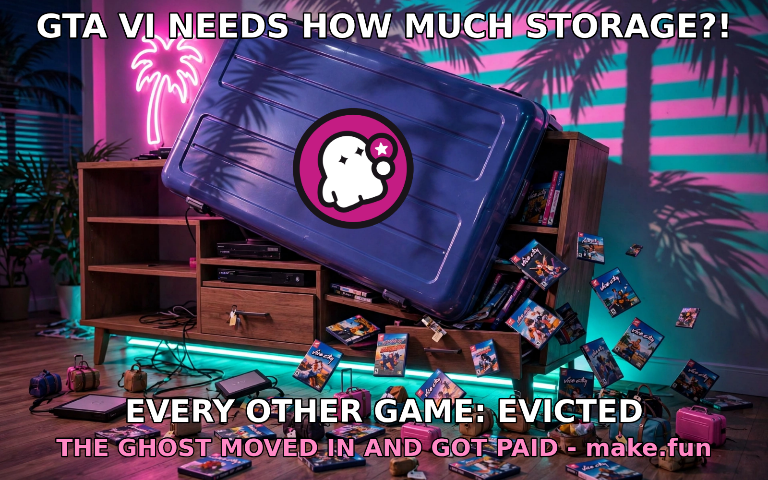
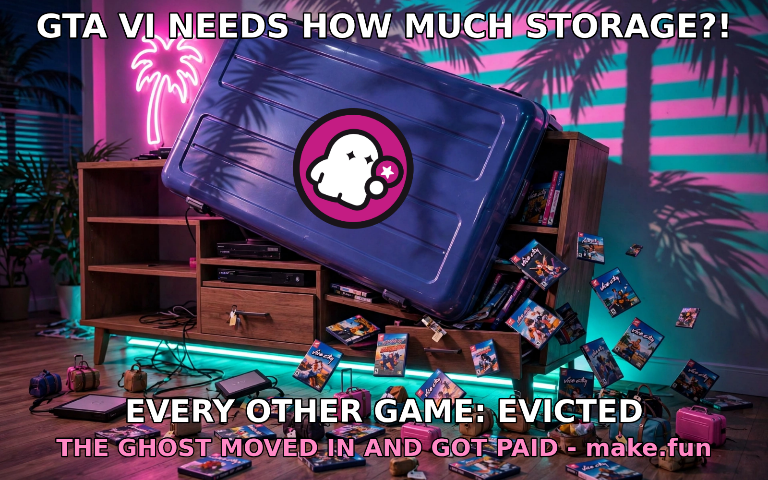
Fix ghost badge rotation: +20 deg clockwise to match suitcase tilt

Changed region(s): [[0.375, 0.25, 0.5312, 0.4688]]

diff --git a/index.html b/index.html
@@ -39,7 +39,7 @@
 
   offCtx.save();
   offCtx.translate(883, 461);
-  offCtx.rotate(-20 * Math.PI / 180);
+  offCtx.rotate(20 * Math.PI / 180);
   offCtx.drawImage(ghostImg, -163, -163, 326, 326);
   offCtx.restore();
 

diff --git a/README.md b/README.md
@@ -19,7 +19,7 @@ The compositing program produces two output images in `output/`:
 ## Compositing Process
 
 1. Draw the base image on an offscreen 1920x1280 canvas.
-2. Composite the ghost mark onto the suitcase: centered at raw coordinates (883, 461), diameter 326 px, rotated -20 degrees to align with the suitcase tilt.
+2. Composite the ghost mark onto the suitcase: centered at raw coordinates (883, 461), diameter 326 px, rotated +20 degrees (clockwise) to align with the suitcase tilt.
 3. Crop/scale onto the final 1600x1000 canvas: source rect (0, 40, 1920, 1200) drawn to (0, 0, 1600, 1000).
 4. Typeset three caption lines with canvas text:
    - y=26, start size 84, fill #FFFFFF: "GTA VI NEEDS HOW MUCH STORAGE?!"
